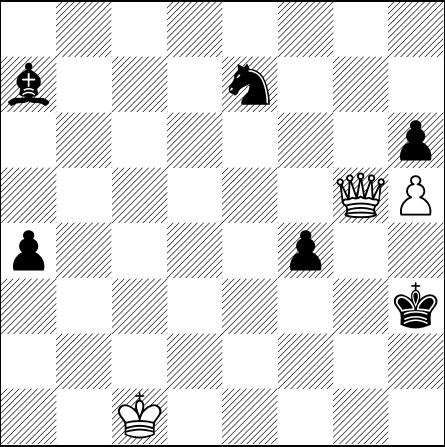
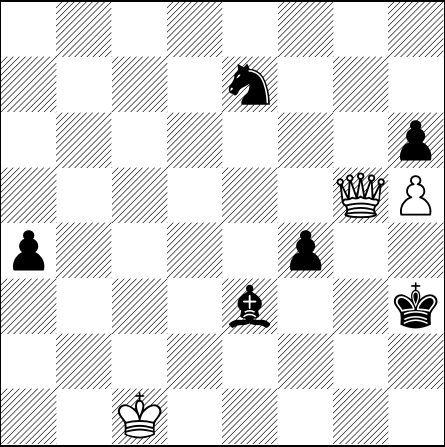
[automated] Regenerate text/pdf for chessboard

Changed region(s): [[0.4966, 0.6398, 0.6135, 0.7562], [0.0, 0.1454, 0.1169, 0.2327]]

diff --git a/default_filepath.tex b/default_filepath.tex
@@ -13,6 +13,6 @@
 \normalsize%
 \setchessboard{showmover=false}%
 \newgame%
-\fenboard{8/b3n3/7p/6QP/p4p2/7k/8/2K5 b - - 10 121}%
+\fenboard{8/4n3/7p/6QP/p4p2/4b2k/8/2K5 w - - 11 122}%
 \chessboard%
 \end{document}
